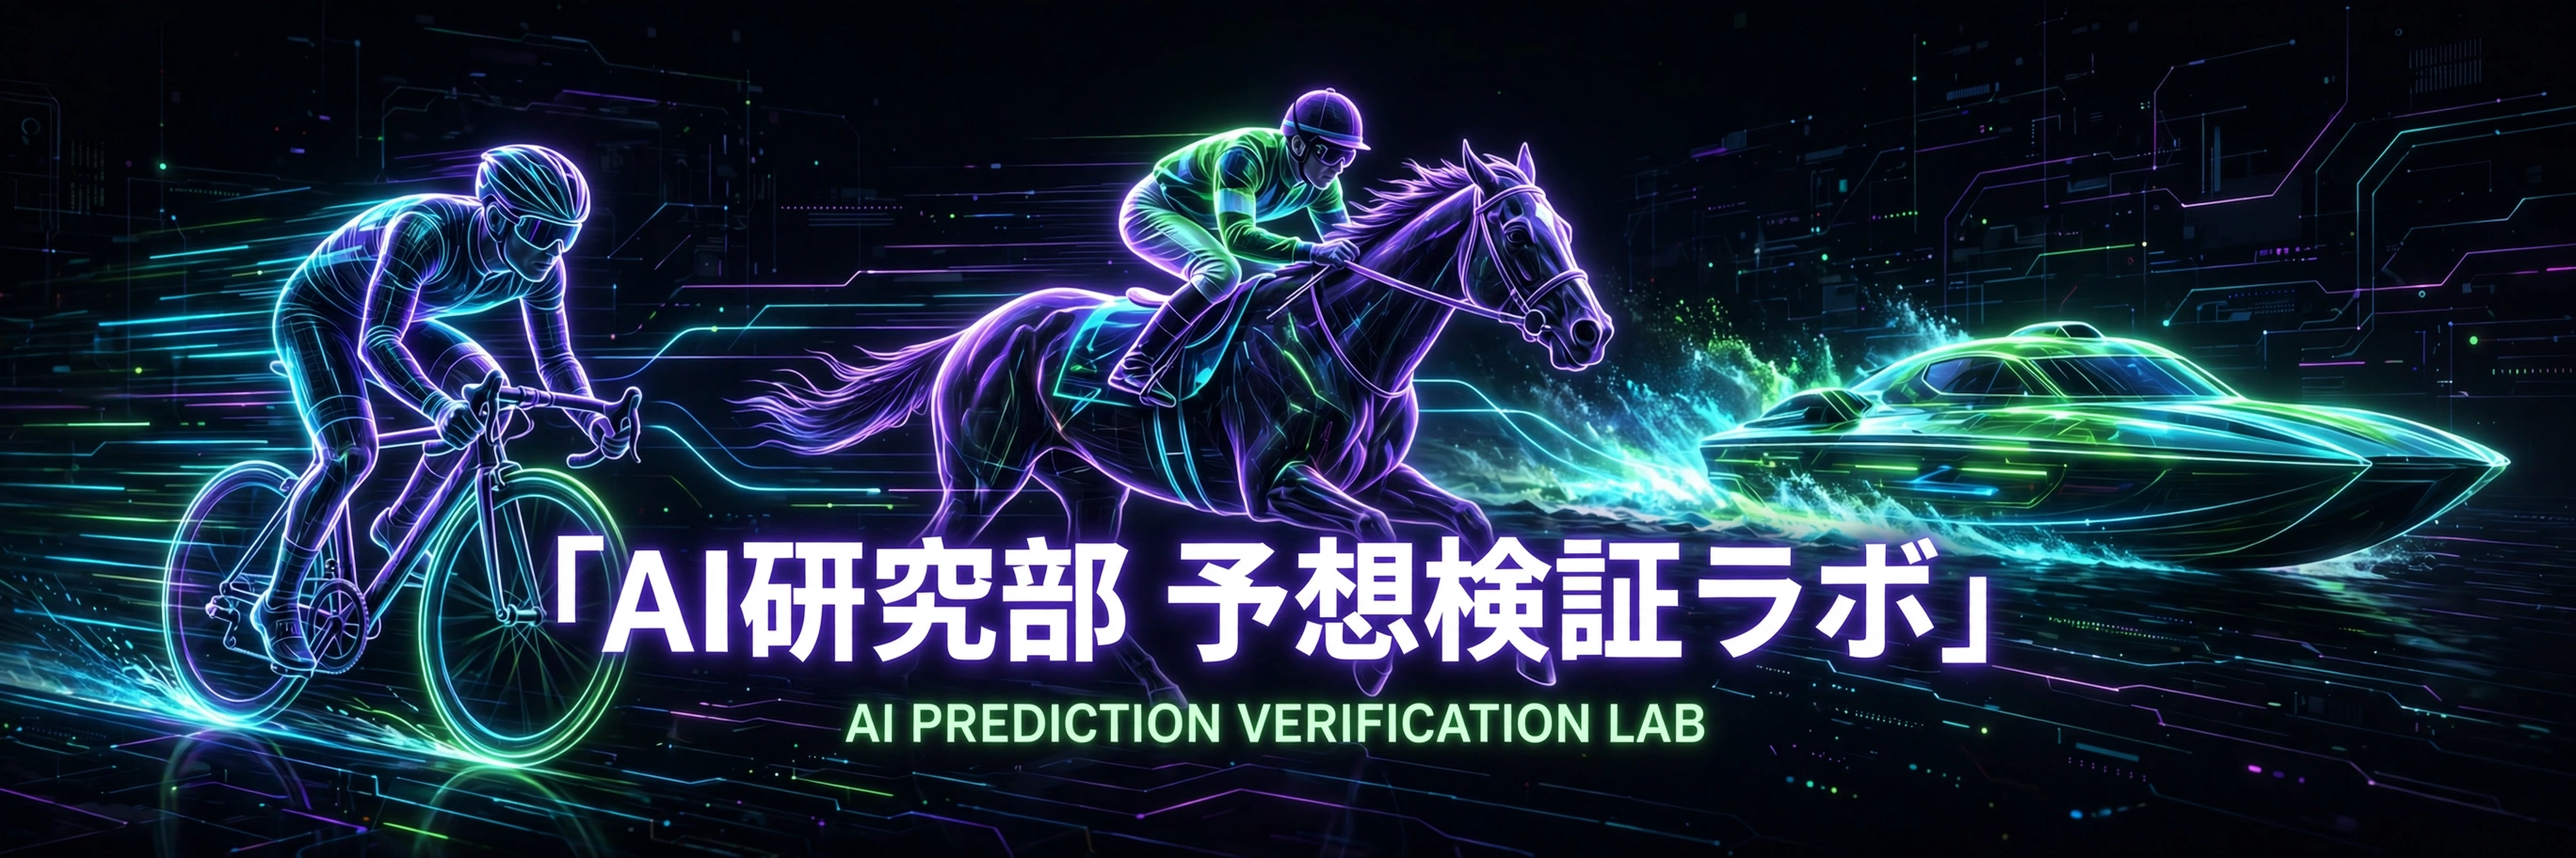
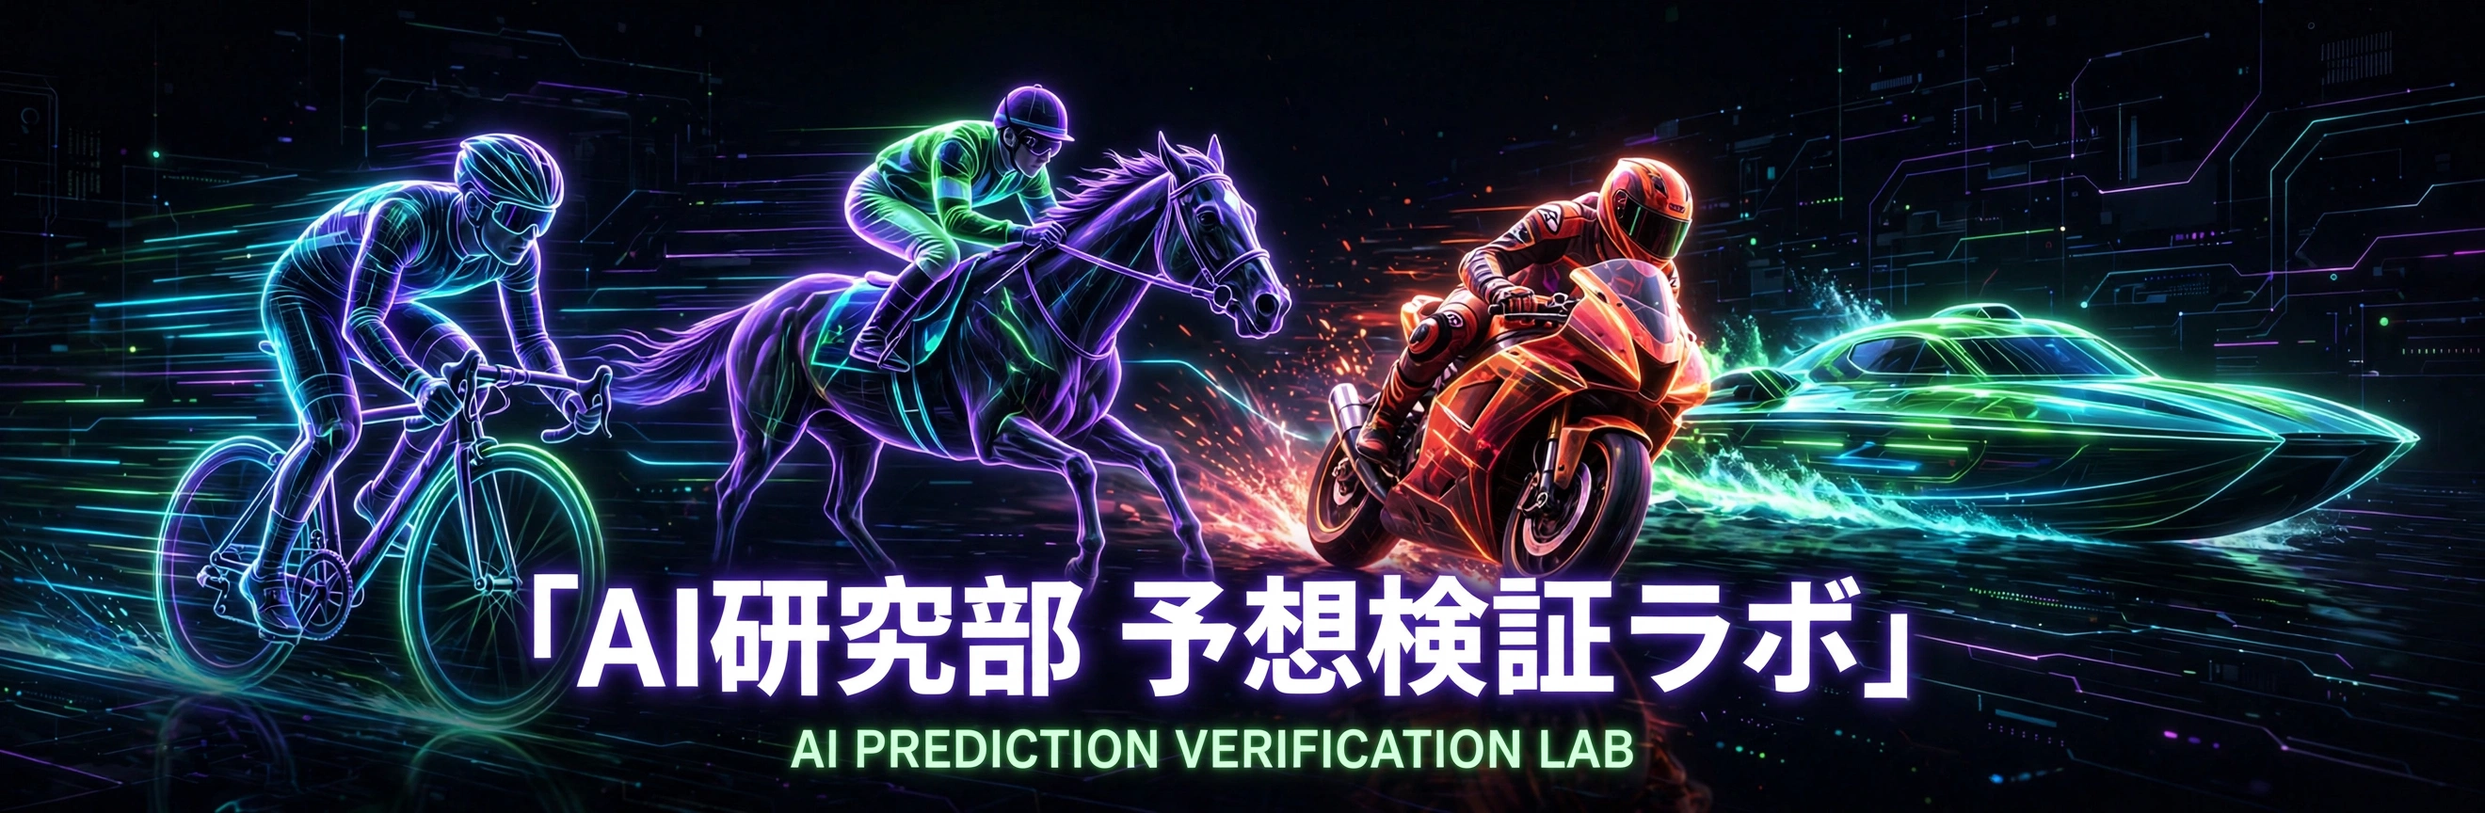
バナーを4競技版に更新＋オートレース用バナー追加

diff --git a/autorace.html b/autorace.html
@@ -9,7 +9,7 @@
 <meta property="og:description" content="AI研究部がオートレースの公式データを蓄積・集計し、三連単配当や試走タイム、ハンデ・車番の傾向を公開するデータ検証ページです。予想検証は準備中です。">
 <meta property="og:type" content="website">
 <meta property="og:url" content="https://ai-kenkyubu.github.io/autorace.html">
-<meta property="og:image" content="https://ai-kenkyubu.github.io/banner.webp">
+<meta property="og:image" content="https://ai-kenkyubu.github.io/banner-autorace.webp">
 <meta name="twitter:card" content="summary_large_image">
 <style>
 :root{
@@ -136,7 +136,7 @@ nav.quick a{padding:10px 4px;font-size:.84rem}
 <div class="ticker"><div class="ticker-track" id="tickerTrack"><span><svg class="ic" viewBox="0 0 24 24" aria-hidden="true"><path d="M4 20v-8"/><path d="M10 20V5"/><path d="M16 20v-5"/><path d="M2.5 20h19"/></svg> オートレースのデータ検証ページを開設 ― 過去 <b>656レース</b> の蓄積データから公開中　・　<svg class="ic" viewBox="0 0 24 24" aria-hidden="true"><circle cx="5.5" cy="16.5" r="3.4"/><circle cx="18.5" cy="16.5" r="3.4"/><path d="M5.5 16.5L9.8 8.5h5.7l3 8"/><path d="M9.8 8.5L12.3 16.5h6.2"/><path d="M8.2 6h3.2"/></svg> 競輪・<svg class="ic" viewBox="0 0 24 24" aria-hidden="true"><path d="M12 14.5V5.5"/><path d="M12 5.5l5.5 6H12"/><path d="M4 15.5l1.6 3.5h12.8L20 15.5"/><path d="M2 21.8c2.2 0 2.2 1.4 4.4 1.4S8.6 21.8 10.8 21.8s2.2 1.4 4.4 1.4 2.2-1.4 4.4-1.4"/></svg> 競艇の全レース検証を <b>毎日公開中</b>　・　<svg class="ic" viewBox="0 0 24 24" aria-hidden="true"><path d="M5 21.5v-19"/><path d="M5 4.5c4-2.2 7 1.8 14 0v8.5c-7 1.8-10-2.2-14 0"/></svg> 競馬は重賞のみ検証　・　<svg class="ic" viewBox="0 0 24 24" aria-hidden="true"><path d="M9.5 3h5"/><path d="M10.5 3v5.2L5.2 18a2.3 2.3 0 0 0 2 3.5h9.6a2.3 2.3 0 0 0 2-3.5L13.5 8.2V3"/><path d="M7.6 14.5h8.8"/></svg> 新実験サイト「白黒ラボ」公開中 ― AIだけでメディア運営に挑戦しています → <a href="/shirokuro-lab/">白黒ラボを見る</a>　・　<svg class="ic" viewBox="0 0 24 24" aria-hidden="true"><path d="M3 11l9-8 9 8"/><path d="M5 9.5V21h14V9.5"/><path d="M9.5 21v-6h5v6"/></svg> AI研究部の玄関はこちら → <a href="/portal/">ポータル</a>　・　</span></div></div>
 
 <header class="hero">
-<img src="banner.webp" alt="AI研究部 予想検証ラボ">
+<img src="banner-autorace.webp" alt="AI研究部 オートレース データ検証">
 <p class="tagline">AI予想を、ぜんぶ検証する。</p>
 <h1><span class="grad">オートレース</span> データ検証</h1>
 <p class="note-small">オートレースの公式レースデータを蓄積し、配当・試走タイム・ハンデなどの傾向を集計して公開しています。<br>予想検証（毎朝の予想公開と毎晩の答え合わせ）は準備中です。</p>
